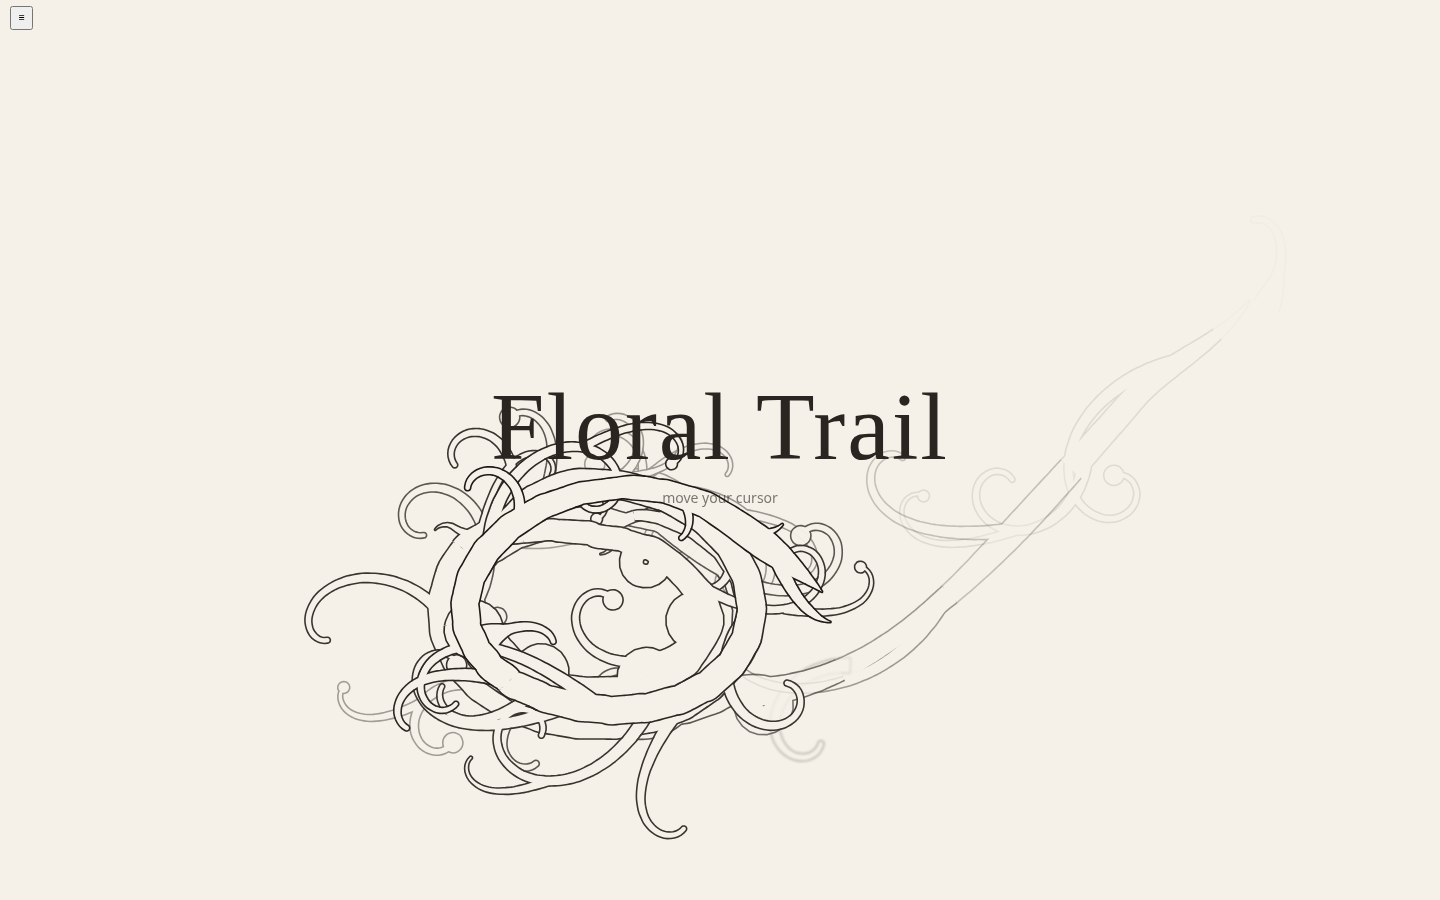
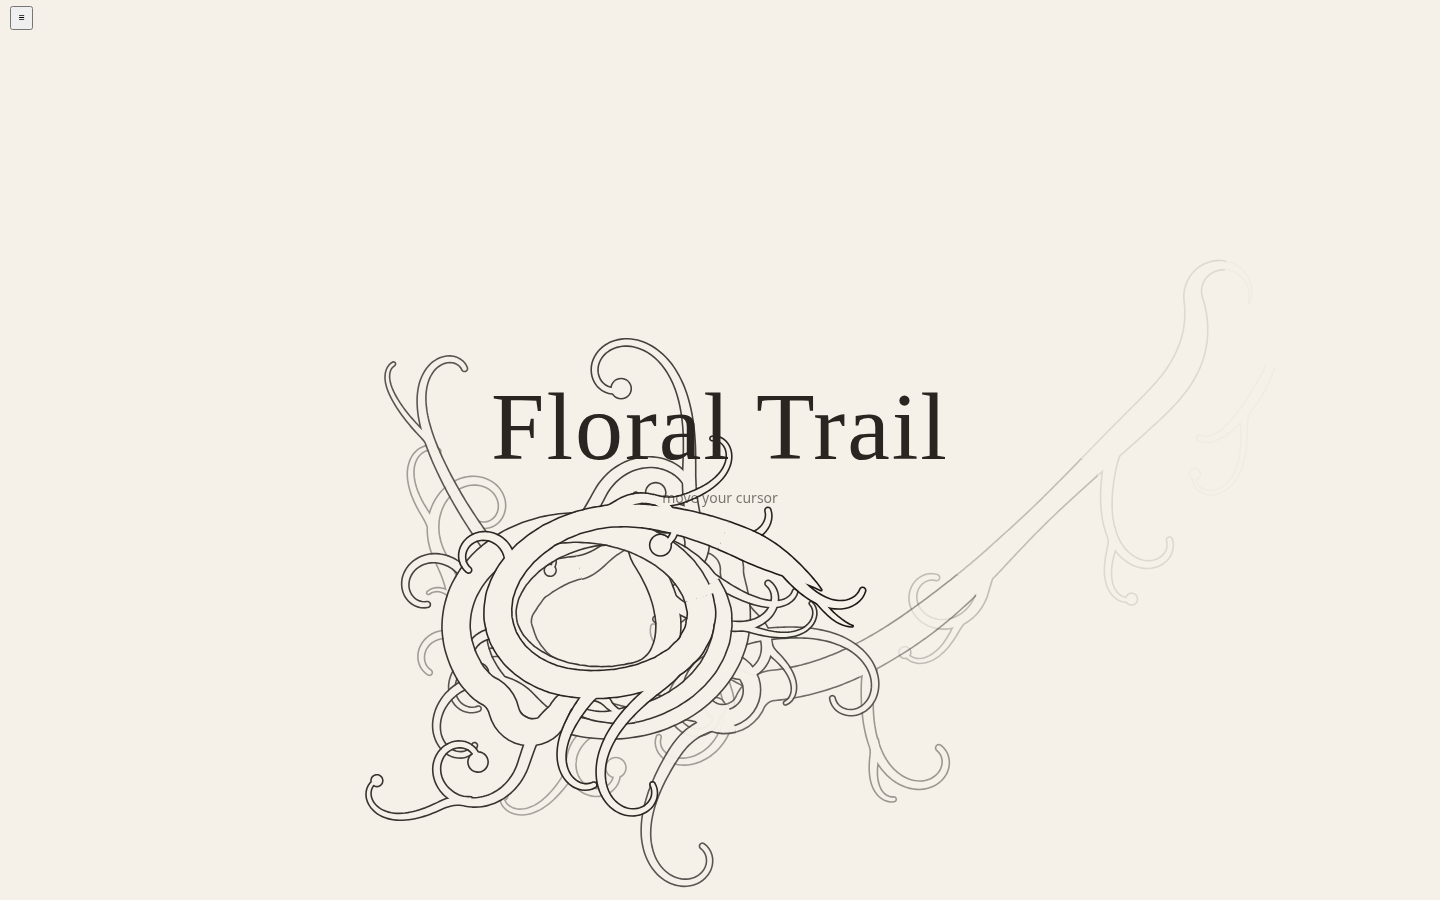
StreamLine-style stroke smoothing and softer edges
- Two-stage cursor stabiliser (StreamLine slider)
- Min turn radius slider keeps bends round on both edges
- Tendrils peel off tangentially (Peel-off slider); loop-back arc starts after the peel
- Continuing strands start inside the old tip (no loose pointed tail)
- Motif outlines are resampled and Gaussian-smoothed at load
- Lower roughness defaults

diff --git a/prototype/src/presets.js b/prototype/src/presets.js
@@ -9,7 +9,8 @@ const color = (key, label) => ({ key, label, group: 'Colours', type: 'color', li
 
 export const SCHEMA = [
   range('growSpeed', 'Grow speed (px/s)', 'Spine', 100, 3000, 10),
-  range('smoothing', 'Path smoothing (ms)', 'Spine', 0, 400, 5),
+  range('smoothing', 'StreamLine (ms)', 'Spine', 0, 800, 5),
+  range('turnRadius', 'Min turn radius (× width)', 'Spine', 0.3, 4, 0.05),
   range('meanderAmp', 'Meander amount (px)', 'Spine', 0, 150, 1),
   range('meanderWavelength', 'Meander wavelength (px)', 'Spine', 80, 1500, 10),
   range('strandMin', 'Strand length min (px)', 'Spine', 150, 4000, 10),
@@ -26,6 +27,7 @@ export const SCHEMA = [
   range('departMax', 'Departure angle max (°)', 'Tendrils', 0, 90, 1),
   range('lengthMin', 'Length min (px)', 'Tendrils', 20, 900, 5),
   range('lengthMax', 'Length max (px)', 'Tendrils', 20, 900, 5),
+  range('peel', 'Peel-off length (× length)', 'Tendrils', 0, 0.6, 0.01),
   range('tendrilWidth', 'Width (× spine)', 'Tendrils', 0.1, 1.5, 0.01, true),
   range('tendrilEndWidth', 'End width (× start)', 'Tendrils', 0, 1, 0.01, true),
   range('bodyBend', 'Body bend (rad)', 'Tendrils', 0, 4, 0.05),
@@ -76,16 +78,16 @@ export const SCHEMA = [
 ];
 
 const ribbon = {
-  growSpeed: 900, smoothing: 120, meanderAmp: 40, meanderWavelength: 520, strandMin: 700, strandMax: 1300,
+  growSpeed: 900, smoothing: 220, turnRadius: 1.2, meanderAmp: 40, meanderWavelength: 520, strandMin: 700, strandMax: 1300,
   spineWidth: 24, widthNoise: 0.4, tailTaper: 180, tipTaper: 90,
-  tendrilSpacing: 120, tendrilChance: 0.85, alternateSides: 0.75, departMin: 20, departMax: 45,
+  tendrilSpacing: 120, tendrilChance: 0.85, alternateSides: 0.75, departMin: 20, departMax: 45, peel: 0.3,
   lengthMin: 120, lengthMax: 320, tendrilWidth: 0.6, tendrilEndWidth: 0.3, bodyBend: 0.6,
   curlRadius: 16, curlRamp: 3, loopBackChance: 0.45, outwardCurlChance: 0.4, subTendrilChance: 0.35,
   droop: 0, growTime: 0.9,
   wCurl: 6, wBall: 4, wHook: 1.5, wBud: 0, wLeaf: 0, wFlower: 0, ballSize: 1.3,
   motifSet: 'ribbon', motifScale: 1, frillChance: 0, frillSpacing: 60, bloomRate: 0, slowSpeed: 120,
   clusterTendrils: 3, densityLimit: 10, maxElements: 2500,
-  inkWeight: 1.6, wobbleLow: 0.8, wobbleLowWave: 140, roughness: 0.15, roughnessWave: 6, fillMode: 'cut',
+  inkWeight: 1.6, wobbleLow: 0.8, wobbleLowWave: 140, roughness: 0.04, roughnessWave: 6, fillMode: 'cut',
   cohortWindow: 0.75, lifetime: 9, fadeStart: 0.45, ageTint: 0.5, blurMax: 0.8, backChance: 0.15, backMix: 0.55,
   ink: '#1d1a17', paper: '#f6f1e8', fill: '#ffffff',
 };
@@ -95,7 +97,7 @@ const nouveau = {
   meanderAmp: 55, spineWidth: 22, widthNoise: 0.55, tendrilSpacing: 120, loopBackChance: 0.3,
   wCurl: 4, wBall: 2, wHook: 2, wBud: 2, wLeaf: 3, wFlower: 1,
   motifSet: 'nouveau', motifScale: 1.8, frillChance: 0.35, frillSpacing: 45, bloomRate: 0.8,
-  inkWeight: 1.6, wobbleLow: 1.4, roughness: 0.5, fillMode: 'fill',
+  inkWeight: 1.6, wobbleLow: 1.4, roughness: 0.2, fillMode: 'fill',
   ink: '#151311', paper: '#e9e6df', fill: '#ffffff',
 };
 

diff --git a/prototype/src/motifs.js b/prototype/src/motifs.js
@@ -1,7 +1,49 @@
-export function createMotifLibrary(list) {
+// Rounds off harsh corners: resamples a closed ring evenly, then applies a circular Gaussian
+// blur to the coordinates. The blur shrinks with the ring so small details (dots) survive.
+function smoothRing(ring) {
+  let pts = ring;
+  const first = pts[0], last = pts[pts.length - 1];
+  if (pts.length > 1 && first[0] === last[0] && first[1] === last[1]) pts = pts.slice(0, -1);
+  if (pts.length < 3) return ring;
+  const m = pts.length;
+  const seg = pts.map((p, i) => Math.hypot(pts[(i + 1) % m][0] - p[0], pts[(i + 1) % m][1] - p[1]));
+  const perimeter = seg.reduce((a, b) => a + b, 0);
+  if (!(perimeter > 0)) return ring;
+  const n = Math.min(400, Math.max(16, Math.round(perimeter / 0.02)));
+  const spacing = perimeter / n;
+  const even = [];
+  let i = 0, walked = 0;
+  for (let k = 0; k < n; k++) {
+    const target = k * spacing;
+    while (i < m - 1 && walked + seg[i] < target) walked += seg[i++];
+    const u = seg[i] > 0 ? Math.min(1, (target - walked) / seg[i]) : 0;
+    const a = pts[i], b = pts[(i + 1) % m];
+    even.push([a[0] + (b[0] - a[0]) * u, a[1] + (b[1] - a[1]) * u]);
+  }
+  const sigma = Math.min(0.06, perimeter / 40) / spacing; // in samples
+  const reach = Math.max(1, Math.ceil(sigma * 3));
+  const weights = [];
+  for (let k = -reach; k <= reach; k++) weights.push(Math.exp(-(k * k) / (2 * sigma * sigma)));
+  const total = weights.reduce((a, b) => a + b, 0);
+  return even.map((_, k) => {
+    let x = 0, y = 0;
+    for (let j = -reach; j <= reach; j++) {
+      const q = even[(((k + j) % n) + n) % n];
+      const w = weights[j + reach] / total;
+      x += q[0] * w;
+      y += q[1] * w;
+    }
+    return [x, y];
+  });
+}
+
+export function createMotifLibrary(list, { smooth = true } = {}) {
   const byId = new Map();
   const byKey = new Map();
-  for (const m of list) {
+  for (const raw of list) {
+    const m = smooth
+      ? { ...raw, silhouette: raw.silhouette.map(smoothRing), ink: (raw.ink || []).map(smoothRing) }
+      : raw;
     byId.set(m.id, m);
     for (const set of m.presets) {
       const k = `${set}:${m.type}`;

diff --git a/prototype/src/tendril.js b/prototype/src/tendril.js
@@ -35,17 +35,26 @@ export function buildTendril(opts) {
   const terminal = opts.terminal ?? pickTerminal(P, rng, hasMotif);
   const loopBack = opts.loopBack ?? rng.chance(P.loopBackChance);
 
-  // Loop-back: an arc that turns 2*depart (+ margin) back toward the parent, crossing it.
+  // Peel-off: start tangent to the parent and swing out to the departure angle over peelLen,
+  // so the junction is a smooth divergence rather than a hard V.
+  const peelLen = (P.peel ?? 0) > 0 ? Math.max(12, Math.min(0.6, P.peel) * length) : 0;
+  // Loop-back: after peeling out, an arc turns 2*depart (+ margin) back toward the parent, crossing it.
   const bend = loopBack
-    ? (-side * (2 * depart + 0.6)) / (0.75 * length)
+    ? (-side * (2 * depart + 0.6)) / Math.max(12, 0.75 * length - peelLen)
     : ((rng.chance(P.outwardCurlChance) ? side : -side) * P.bodyBend) / length;
   const turn = Math.sign(bend) || side;
   const curlR = Math.max(1, P.curlRadius * Math.sqrt(scale));
   let k1 = bend, p = 1;
   if (terminal === 'curl' || terminal === 'ball') { k1 = turn / curlR; p = P.curlRamp; }
   else if (terminal === 'hook') { k1 = turn / (curlR * 0.8); p = P.curlRamp * 2.5; }
-  const curvature = curvatureProfile(length, bend, k1, p);
-  const { points, endHeading } = curvePath({ x, y, heading: heading + side * depart, length, curvature, droop: P.droop });
+  const profile = curvatureProfile(length, bend, k1, p);
+  // While a loop-back tendril is still peeling out, its return arc has not started yet.
+  const body = loopBack && peelLen > 0 ? (s) => profile(s) - (s < peelLen ? bend : 0) : profile;
+  const curvature = peelLen > 0
+    ? (s) => body(s) + (s < peelLen ? (side * depart * (1 - Math.cos((2 * Math.PI * s) / peelLen))) / peelLen : 0)
+    : body;
+  const heading0 = heading + (peelLen > 0 ? 0 : side * depart);
+  const { points, endHeading } = curvePath({ x, y, heading: heading0, length, curvature, droop: P.droop });
   const growDuration = P.growTime * rng.range(0.8, 1.2) * Math.sqrt(scale);
   const ribbon = {
     kind: 'ribbon', role: 'tendril', points, cum: cumulativeLengths(points), length, scale, terminal,

diff --git a/tests/grower.test.js b/tests/grower.test.js
@@ -160,7 +160,7 @@ test('a strand that sits idle ends with a terminal, and drawing again starts a f
 });
 
 test('the spine never turns tighter than its own width allows, even on a hairpin', () => {
-  const { scene, grower } = setup({ ...FAST, tendrilChance: 0, strandMin: 4000, strandMax: 4000, spineWidth: 24 });
+  const { scene, grower } = setup({ ...FAST, tendrilChance: 0, strandMin: 4000, strandMax: 4000, spineWidth: 24, turnRadius: 1.5 });
   grower.feed([...line(0, 300), ...line(0, 300, 6).reverse()]);
   grower.update(0.016, 0, 1000);
   const pts = spine(scene).flatMap((c) => c.points);
@@ -175,7 +175,7 @@ test('the spine never turns tighter than its own width allows, even on a hairpin
     if (dh > Math.PI) dh = 2 * Math.PI - dh;
     worst = Math.max(worst, dh / seg);
   }
-  assert.ok(worst <= 1 / (24 * 0.6) + 1e-6, `tightest radius ${1 / worst}px`);
+  assert.ok(worst <= 1 / (24 * 1.5) + 1e-6, `tightest radius ${1 / worst}px`);
 });
 
 test('a finished strand runs into its terminal at full width instead of pinching to a point', () => {
@@ -190,4 +190,13 @@ test('a finished strand runs into its terminal at full width instead of pinching
   assert.deepEqual(t.spineRef, { seed: last.seed, g: last.head.s });
   const h = Math.atan2(t.points[1].y - t.points[0].y, t.points[1].x - t.points[0].x);
   assert.ok(Math.abs(h) < 0.05, `terminal leaves along the spine heading (h=${h})`);
+});
+
+test('a continuing strand starts inside the old tip, so no loose pointed tail shows beside it', () => {
+  const { scene, grower } = setup({ ...FAST, tendrilChance: 0, strandMin: 300, strandMax: 300 });
+  grower.feed(line(0, 700));
+  grower.update(0.016, 0, 1000);
+  const starts = spine(scene).filter((c) => c.sOffset === 0);
+  const firstStrandEnd = spine(scene).filter((c) => c.head === starts[0].head).at(-1).points.at(-1);
+  assert.deepEqual(starts[1].points[0], firstStrandEnd);
 });

diff --git a/prototype/src/grower.js b/prototype/src/grower.js
@@ -88,8 +88,8 @@ export class Grower {
     this.maybeBloom(dt, now, cursorSpeed);
   }
 
-  // The tip steers toward the (meandering) target with a limited turn rate, so the ribbon
-  // never bends tighter than its own width and cannot fold into spikes on sharp reversals.
+  // The tip steers toward the (meandering) target with a limited turn rate (turnRadius × width),
+  // so bends stay round on both edges and the ribbon cannot crease or fold on sharp reversals.
   advance(a, b, now) {
     const len = dist(a, b);
     if (len < 1e-6) return;
@@ -104,7 +104,7 @@ export class Grower {
     const d = dist(st.tip, want);
     if (d < 0.5) return;
     const stepLen = Math.min(d, len * 1.5);
-    const minRadius = Math.max(4, P.spineWidth * 0.6);
+    const minRadius = Math.max(4, P.spineWidth * P.turnRadius);
     const raw = Math.atan2(want.y - st.tip.y, want.x - st.tip.x) - st.heading;
     const dh = Math.atan2(Math.sin(raw), Math.cos(raw));
     const maxTurn = stepLen / minRadius;
@@ -237,14 +237,13 @@ export class Grower {
     this.addAll(els, 'front', now, st.tip);
   }
 
-  // Long strands end and a new one starts beside the old tip, overlapping it like the references.
+  // Long strands end in a terminal and a new one starts from inside the old tip: its tapered tail
+  // is hidden in the old ribbon, so the two part ways as a smooth fork with no loose point.
   continueStrand(now) {
     const st = this.strand;
     const tip = st.tip, heading = st.heading;
-    const side = -st.lastSide;
     this.finishStrand(now);
-    const off = this.params.spineWidth * 1.4 * side;
-    this.startStrand({ x: tip.x - Math.sin(heading) * off, y: tip.y + Math.cos(heading) * off }, heading, now);
+    this.startStrand({ x: tip.x, y: tip.y }, heading, now);
   }
 
   maybeBloom(dt, now, speed) {

diff --git a/prototype/src/input.js b/prototype/src/input.js
@@ -47,22 +47,27 @@ export class PathSampler {
   }
 }
 
-// Exponential smoothing of the cursor (time constant in ms) plus a smoothed speed estimate.
+// StreamLine-style stabiliser: two cascaded exponential filters (total time constant in ms), so the
+// stroke glides behind the cursor, wobble is absorbed and corners come out rounded with no kink.
+// Also keeps a smoothed speed estimate.
 export class Smoother {
   constructor() {
     this.reset();
   }
   reset() {
     this.pos = null;
+    this.mid = null;
     this.speed = 0;
   }
   update(target, dt, tauMs) {
     if (!this.pos) {
       this.pos = { x: target.x, y: target.y };
+      this.mid = { x: target.x, y: target.y };
       return this.pos;
     }
-    const a = tauMs <= 0 ? 1 : 1 - Math.exp((-dt * 1000) / tauMs);
-    const next = { x: this.pos.x + (target.x - this.pos.x) * a, y: this.pos.y + (target.y - this.pos.y) * a };
+    const a = tauMs <= 0 ? 1 : 1 - Math.exp((-dt * 1000) / (tauMs / 2));
+    this.mid = { x: this.mid.x + (target.x - this.mid.x) * a, y: this.mid.y + (target.y - this.mid.y) * a };
+    const next = { x: this.pos.x + (this.mid.x - this.pos.x) * a, y: this.pos.y + (this.mid.y - this.pos.y) * a };
     const v = dist(this.pos, next) / Math.max(dt, 1e-4);
     this.speed += (v - this.speed) * Math.min(1, dt * 8);
     this.pos = next;

diff --git a/tests/tendril.test.js b/tests/tendril.test.js
@@ -85,3 +85,17 @@ test('an explicit depart angle overrides the random departure', () => {
   const h = Math.atan2(r.points[1].y - r.points[0].y, r.points[1].x - r.points[0].x);
   assert.ok(Math.abs(h) < 0.02, `h=${h}`);
 });
+
+test('a tendril peels off along its parent and reaches the departure angle gradually', () => {
+  const [r] = build({ loopBack: false, terminal: 'curl', params: { ...P, outwardCurlChance: 1, peel: 0.3 } });
+  const headingAt = (i) => Math.atan2(r.points[i].y - r.points[i - 1].y, r.points[i].x - r.points[i - 1].x);
+  assert.ok(Math.abs(headingAt(1)) < 0.1, `starts tangent to the parent (h=${headingAt(1)})`);
+  const i35 = Math.round(r.points.length * 0.35);
+  assert.ok(headingAt(i35) > 0.55, `has turned out by 35% of its length (h=${headingAt(i35)})`);
+});
+
+test('with peel 0 a tendril leaves at the departure angle immediately', () => {
+  const [r] = build({ loopBack: false, terminal: 'curl', params: { ...P, outwardCurlChance: 1, peel: 0 } });
+  const h = Math.atan2(r.points[1].y - r.points[0].y, r.points[1].x - r.points[0].x);
+  assert.ok(Math.abs(h - 35 * Math.PI / 180) < 0.05, `h=${h}`);
+});

diff --git a/tests/motifs.test.js b/tests/motifs.test.js
@@ -34,3 +34,15 @@ test('generated motifs.json is well formed', async () => {
     assert.ok(data.some((m) => m.type === type && m.presets.includes(set)), `${set}:${type}`);
   }
 });
+
+test('the library rounds off harsh corners in motif outlines', () => {
+  const square = [[-0.5, -0.5], [0.5, -0.5], [0.5, 0.5], [-0.5, 0.5], [-0.5, -0.5]];
+  const lib = createMotifLibrary([{ id: 's', type: 'flower', presets: ['x'], baseSize: 10, silhouette: [square], ink: [] }]);
+  const ring = lib.get('s').silhouette[0];
+  const radii = ring.map(([u, v]) => Math.hypot(u, v));
+  assert.ok(ring.length > 8);
+  assert.ok(Math.max(...radii) < 0.68, `corners rounded (max r=${Math.max(...radii)})`);
+  assert.ok(Math.min(...radii) > 0.45, `sides kept (min r=${Math.min(...radii)})`);
+  const raw = createMotifLibrary([{ id: 's', type: 'flower', presets: ['x'], baseSize: 10, silhouette: [square], ink: [] }], { smooth: false });
+  assert.equal(raw.get('s').silhouette[0].length, 5);
+});

diff --git a/tests/input.test.js b/tests/input.test.js
@@ -62,3 +62,14 @@ test('clampDt bounds frame gaps', () => {
   assert.equal(clampDt(-1), 0);
   assert.equal(clampDt(0.016), 0.016);
 });
+
+test('Smoother eases into a sudden move instead of kinking (StreamLine-style two-stage filter)', () => {
+  const s = new Smoother();
+  s.update({ x: 0, y: 0 }, 1 / 60, 100);
+  const first = s.update({ x: 100, y: 0 }, 1 / 60, 100);
+  const singlePole = 100 * (1 - Math.exp(-(1000 / 60) / 100)); // what a one-stage filter would move
+  assert.ok(first.x > 0 && first.x < singlePole * 0.8, `first=${first.x} singlePole=${singlePole}`);
+  let p;
+  for (let i = 0; i < 240; i++) p = s.update({ x: 100, y: 0 }, 1 / 60, 100);
+  assert.ok(Math.abs(p.x - 100) < 0.01);
+});

diff --git a/docs/superpowers/specs/2026-10-10-floral-cursor-trail-design.md b/docs/superpowers/specs/2026-10-10-floral-cursor-trail-design.md
@@ -261,6 +261,21 @@ of animating, global element cap.
 3. Presets produce visibly different characters.
 4. The user, viewing it live, judges the concept feasible. Visual tuning after first viewing is expected.
 
+## Addendum (2026-10-10): StreamLine smoothing and soft edges
+
+Requested after first viewing: strokes should feel like Procreate's StreamLine, and harsh edges should go.
+
+- **StreamLine:** the cursor path is stabilised by two cascaded exponential filters (`smoothing`, shown
+  as "StreamLine (ms)"), so the stroke glides behind the cursor, wobble is absorbed and corners round.
+- **Round bends:** the spine tip steers toward the path with a minimum turn radius of
+  `turnRadius × spineWidth`, so the inside edge of a bend is never a crease.
+- **Peel-off junctions:** tendrils start tangent to their parent and swing out to the departure angle
+  over `peel × length`; a loop-back's return arc begins after the peel.
+- **Strand hand-over:** a continuing strand starts inside the old tip, so it forks smoothly from the
+  terminal instead of showing a loose pointed tail (replaces "begins slightly offset" in §3).
+- **Soft motifs:** motif outlines are resampled and Gaussian-smoothed when loaded.
+- Preset roughness lowered (ribbon 0.04, nouveau 0.2).
+
 ## Out of scope
 
 Framework integration (React/Next), production build, mobile/touch behaviour, copyright clearance of
